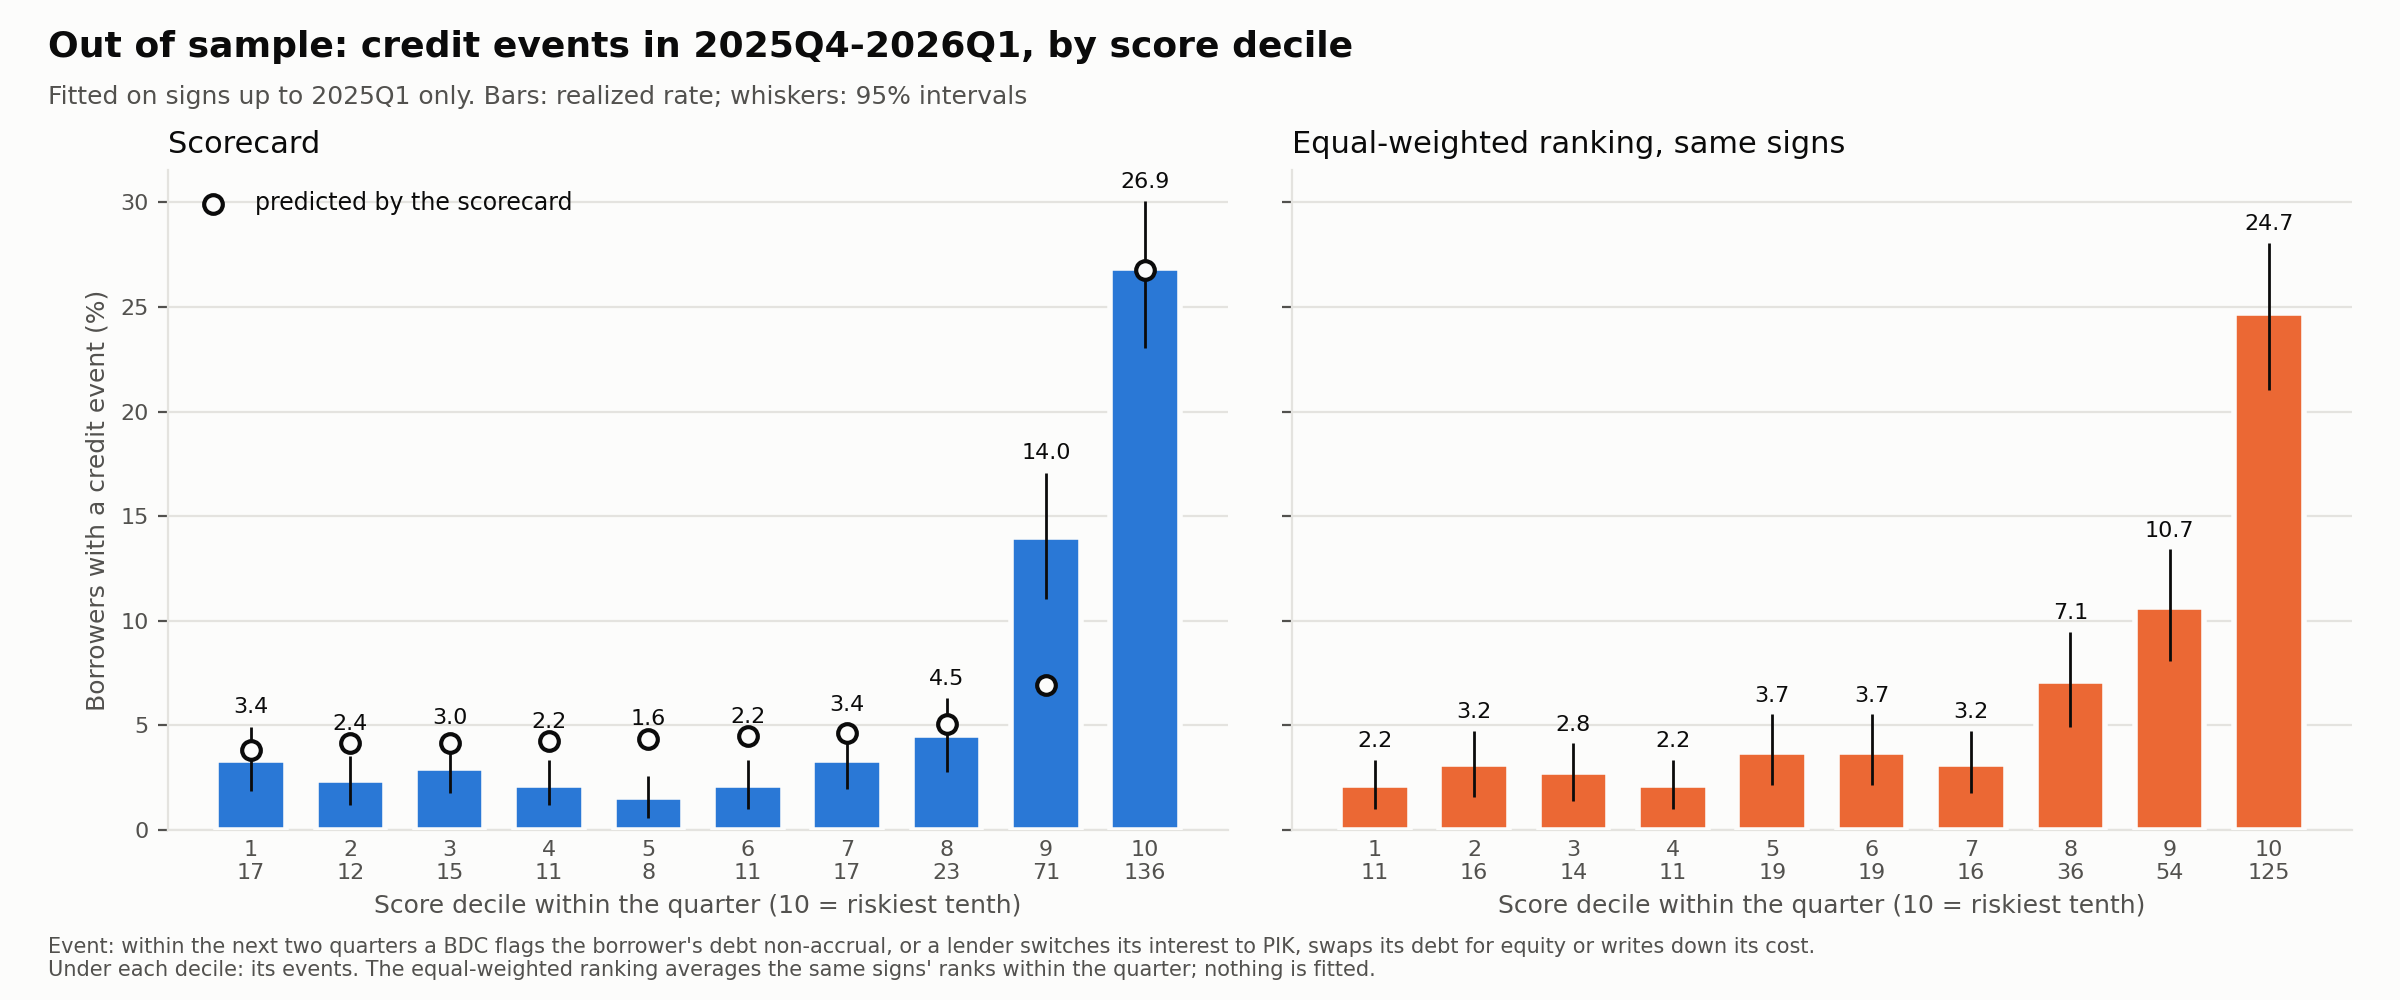
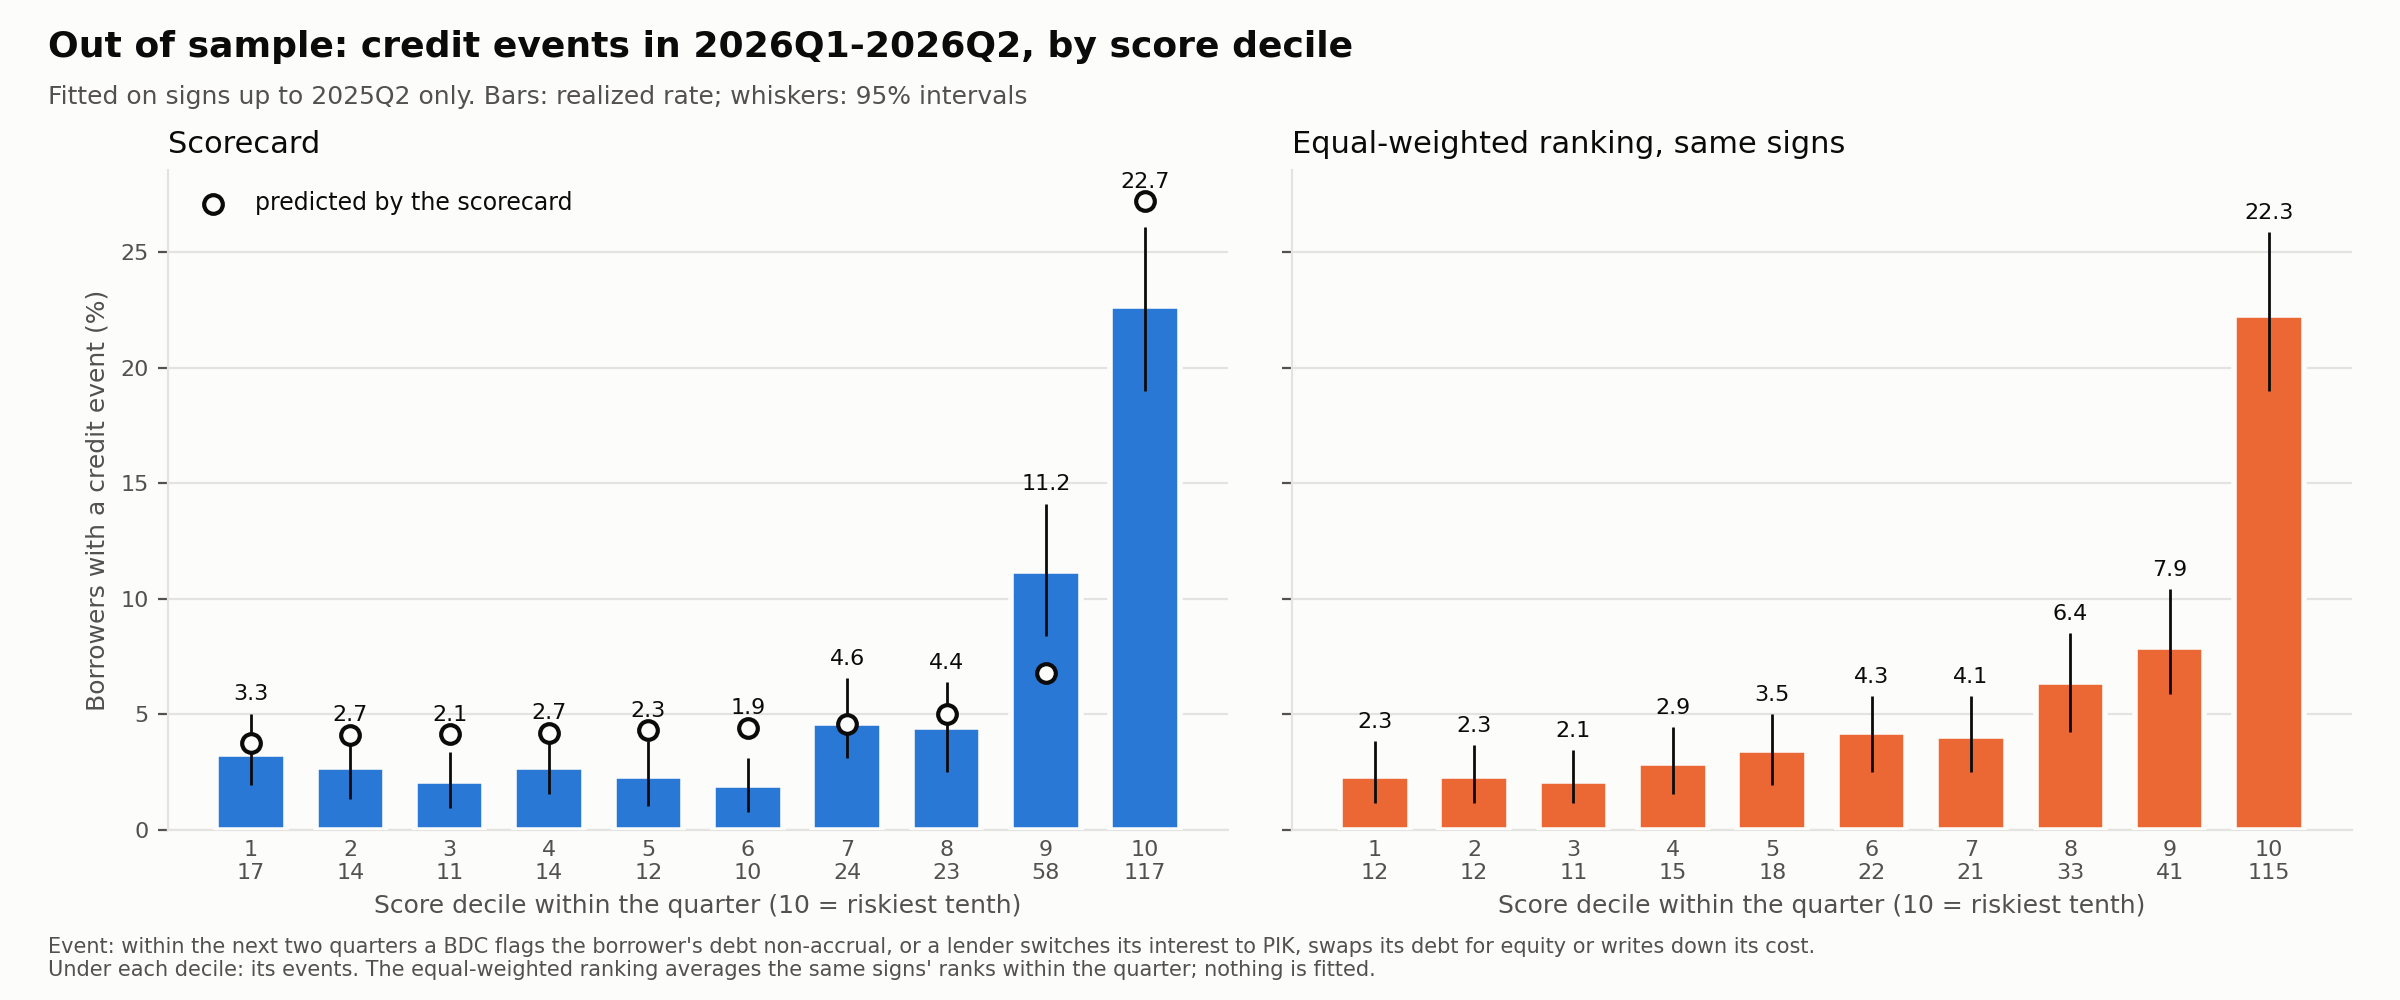
Model: regenerated outputs and updated docs

diff --git a/scripts/run_model.py b/scripts/run_model.py
@@ -7,7 +7,7 @@ interest to PIK, swaps its debt for equity or writes down its cost; borrowers th
 BDC's books before then without an event have no label, and a mark never enters the outcome),
 counts every term change and puts every loan exit in one of four buckets (repaid, refinanced,
 impaired, unresolved) at two cutoffs, chooses the signs on the development quarters, tests the
-scorecard out of sample on signals from 2025Q3, and applies it to the latest quarter. Reads
+scorecard out of sample on signals from 2025Q4 (events in 2026Q1-Q2), and applies it to the latest quarter. Reads
 FINAL_DATASET.csv; writes data/model/ (the panel and the out-of-sample predictions) and
 outputs/model/. About 6 minutes; `--cached` reuses the saved panel (skips the 2-minute panel
 build). See docs/14_early_warning_model.md."""
@@ -37,15 +37,17 @@ warnings.filterwarnings("ignore")
 
 # Signs at t are scored against credit events at t + 1 or t + 2. Three stages, in time order; a stage's
 # training windows all close before the next stage's first signal quarter:
-TRAIN_END = "2025Q1"              # development: signs up to 2025Q1 (windows close by 2025Q3) choose the signs
-TEST_QS = ["2025Q3"]              # test: one fit on the development quarters, scored on one quarter of
+TRAIN_END = "2025Q2"              # development: signs up to 2025Q2 (windows close by 2025Q4) choose the signs
+TEST_QS = ["2025Q4"]              # test: one fit on the development quarters, scored on one quarter of
                                   # signals, so it looks two quarters ahead like every other stage
-                                  # (events in 2025Q4-2026Q1). Was 2025Q3-Q4 until 2026-11-16.
+                                  # (events in 2026Q1-2026Q2, the first half of 2026). Was 2025Q3-Q4 until
+                                  # 2026-11-16 and 2025Q3 (with development up to 2025Q1) until 2026-11-18;
+                                  # the rule keeps the same signs either way.
 SCORE_Q = "2026Q2"                # scorecard quarter (window 2026Q3-2026Q4)
 RESERVED_Q = "2026Q3"             # reserved: nothing is fitted or chosen on it. Once filed, signals from
                                   # 2026Q1 (window 2026Q2-2026Q3) are the blind test: the only test no
-                                  # choice has seen (the 2025Q3 test was seen before the sign rule, the
-                                  # caps and the outcome were settled). Change nothing after running it
+                                  # choice has seen (the 2025Q4 test was seen in the rolling check before
+                                  # this split was chosen). Change nothing after running it
 CONTEXT = ["price", "d_price", "pik_switch", "max_drawdown", "dispersion", "crowding", "fv_debt", "sector"]
 
 

diff --git a/docs/14_early_warning_model.md b/docs/14_early_warning_model.md
@@ -254,6 +254,25 @@ events).
 - The mark alone scores 0.727, above the baseline: the quarter's change adds nothing by itself.
   It stays because the sponsor's baseline is the mark and its recent change.
 
+**The fitted scorecard** (`coefficients.csv`, spec "scorecard"; `odds_ratios.png`). This fit
+uses all 45,427 labelled borrower-quarters with outcomes through 2026Q2 (7,722 borrowers, 2,995
+events). Coefficients are per point of par (0.01 of the mark), so they read directly off a
+schedule. The CSV reports them per 10 points (the mark) and per 5 points (the two changes);
+divide by 10 and by 5. Standard errors are clustered by borrower. The mark and the moves are
+capped (Method).
+
+| Term | Coefficient | SE | z | p | Odds ratio |
+|---|---|---|---|---|---|
+| Intercept | 4.13 | 0.55 | 7.5 | <0.001 | |
+| Mark, per point of par | -0.073 | 0.006 | -13.0 | <0.001 | 0.93 |
+| Change in the mark this quarter, per point | -0.012 | 0.007 | -1.8 | 0.067 | 0.99 |
+| Fall over the past year, per point | 0.061 | 0.008 | 7.6 | <0.001 | 1.06 |
+| Switched to PIK this quarter (0/1) | 1.87 | 0.085 | 22.1 | <0.001 | 6.48 |
+
+McFadden pseudo R² 0.11; ROC-AUC 0.744 on the rows it was fitted on. Per 10 points lower the
+mark multiplies the odds by 2.07 (= 1 / 0.482), and per 5 points of fall over the year by 1.36.
+The 30-second table rounds these.
+
 ## 4. Out-of-sample performance (`oos_performance.csv`, `oos_score_deciles.png`)
 
 Fitted once on outcomes through 2025Q3 (signals up to 2025Q1, 2,074 events); tested on the 5,067
@@ -276,6 +295,10 @@ scorecard's 0.23 is about 3.6 times random.
 | 9 | 14.0% [11.1, 17.1] | 6.9% | 2.02 [1.59, 2.48] |
 | 1-8 | 2.8% | 4.4% | 0.64 [0.54, 0.76] |
 | All | 6.3% [5.7, 7.0] | 6.9% | **0.92 [0.84, 1.02]** |
+
+Deciles 1-8 one by one (about 507 borrowers each), events and realized rate, from decile 8 down
+to 1: 23 (4.5%), 17 (3.4%), 11 (2.2%), 8 (1.6%), 11 (2.2%), 15 (3.0%), 12 (2.4%), 17 (3.4%).
+Each is predicted at 3.8% to 5.1%.
 
 Realized ÷ predicted is 1 when the model predicts the right number of events; its interval, like
 the others, resamples borrowers with the predictions held fixed (`oos_deciles.csv`).
@@ -431,9 +454,16 @@ changes and loan exits; `model_fit.py`: logit and metrics; `model_analysis.py`: 
   before the quarter it scores. Choosing signs: rolling, each of signals 2024Q2-2025Q1 scored by
   a fit on the windows closed by then; the four rounds' predictions are pooled into one ROC-AUC
   per model. Test: fit on outcomes through 2025Q3, scored on the borrowers of 2025Q3 (events
-  2025Q4-2026Q1). Final test (once 2026Q3 is loaded): fit on outcomes through 2026Q1, scored on
-  the borrowers of 2026Q1 (events 2026Q2-Q3). Scorecard: fit on outcomes through 2026Q2 (signals
-  2023Q2-2025Q4), scored on the borrowers of 2026Q2.
+  2025Q4-2026Q1). Blind test (not in the data used; needs 2026Q3): fit on outcomes through
+  2026Q1, scored on the borrowers of 2026Q1 (events 2026Q2-Q3). Scorecard: fit on outcomes through
+  2026Q2 (signals 2023Q2-2025Q4), scored on the borrowers of 2026Q2.
+
+  | Stage | Fitted on (signal quarters) | Rows fitted | Events fitted | Scored |
+  |---|---|---|---|---|
+  | Choosing signs, first round | 2023Q2-2023Q4 | 9,664 | 680 | borrowers of 2024Q2 |
+  | Choosing signs, last round | 2023Q2-2024Q3 | 21,385 | 1,524 | borrowers of 2025Q1 |
+  | Test | 2023Q2-2025Q1 | 30,366 | 2,074 | borrowers of 2025Q3 (5,067; 321 events) |
+  | Scorecard | 2023Q2-2025Q4 | 45,427 | 2,995 | borrowers of 2026Q2 (6,267) |
 - **Intervals:** borrower-resampled bootstrap for every performance measure and rate (AUC,
   recall, event rates), since a borrower appears in several quarters and one event can fall in
   two overlapping windows; borrower-clustered standard errors for coefficients.
